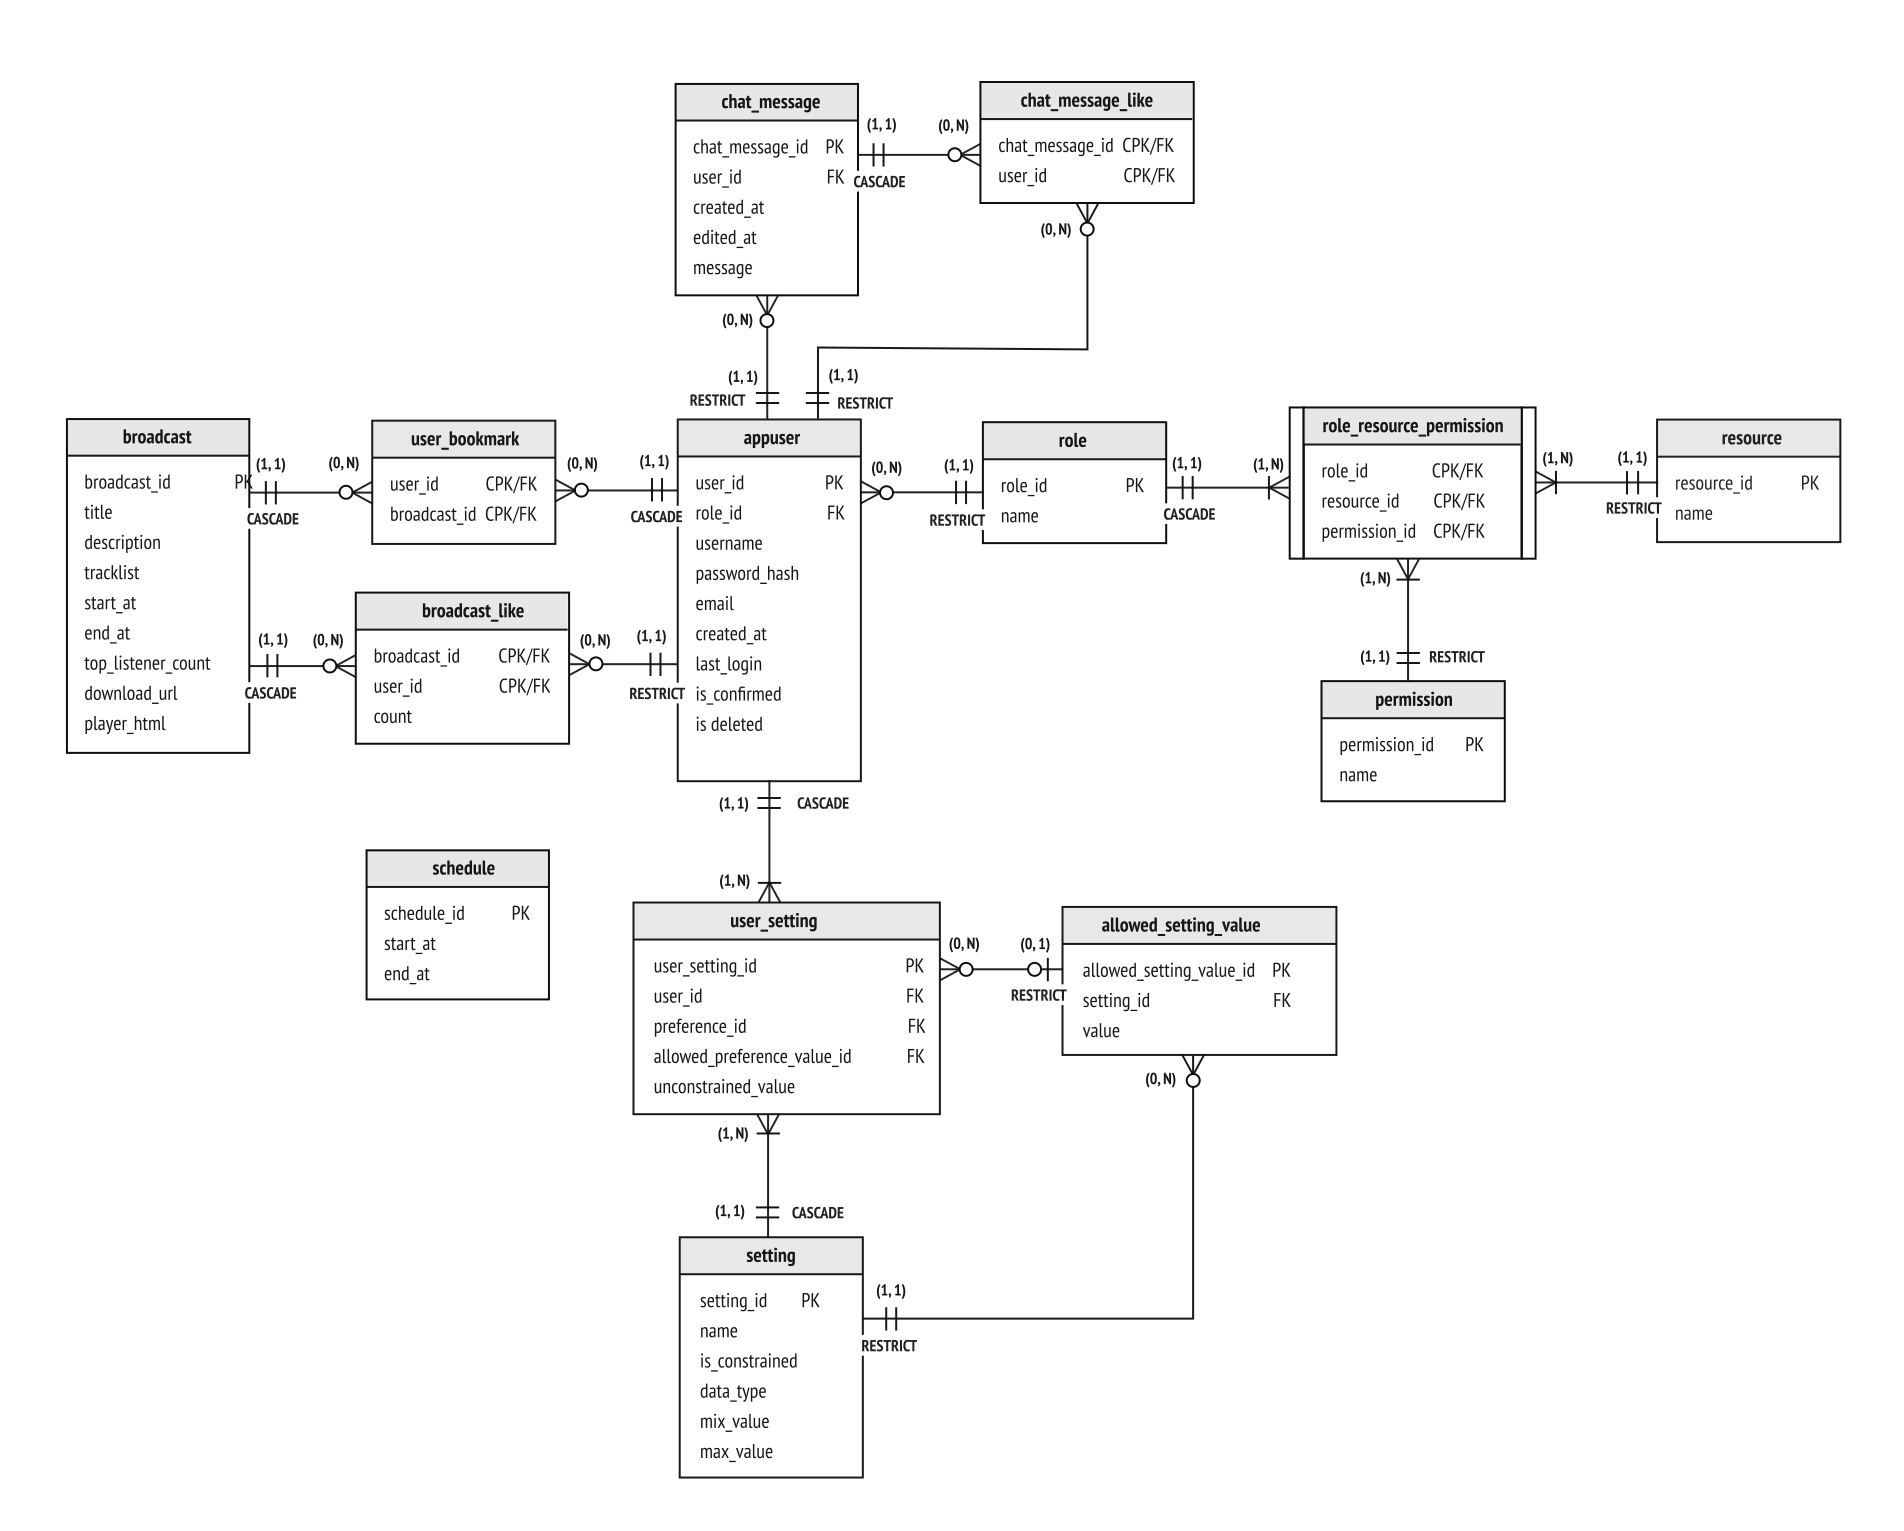
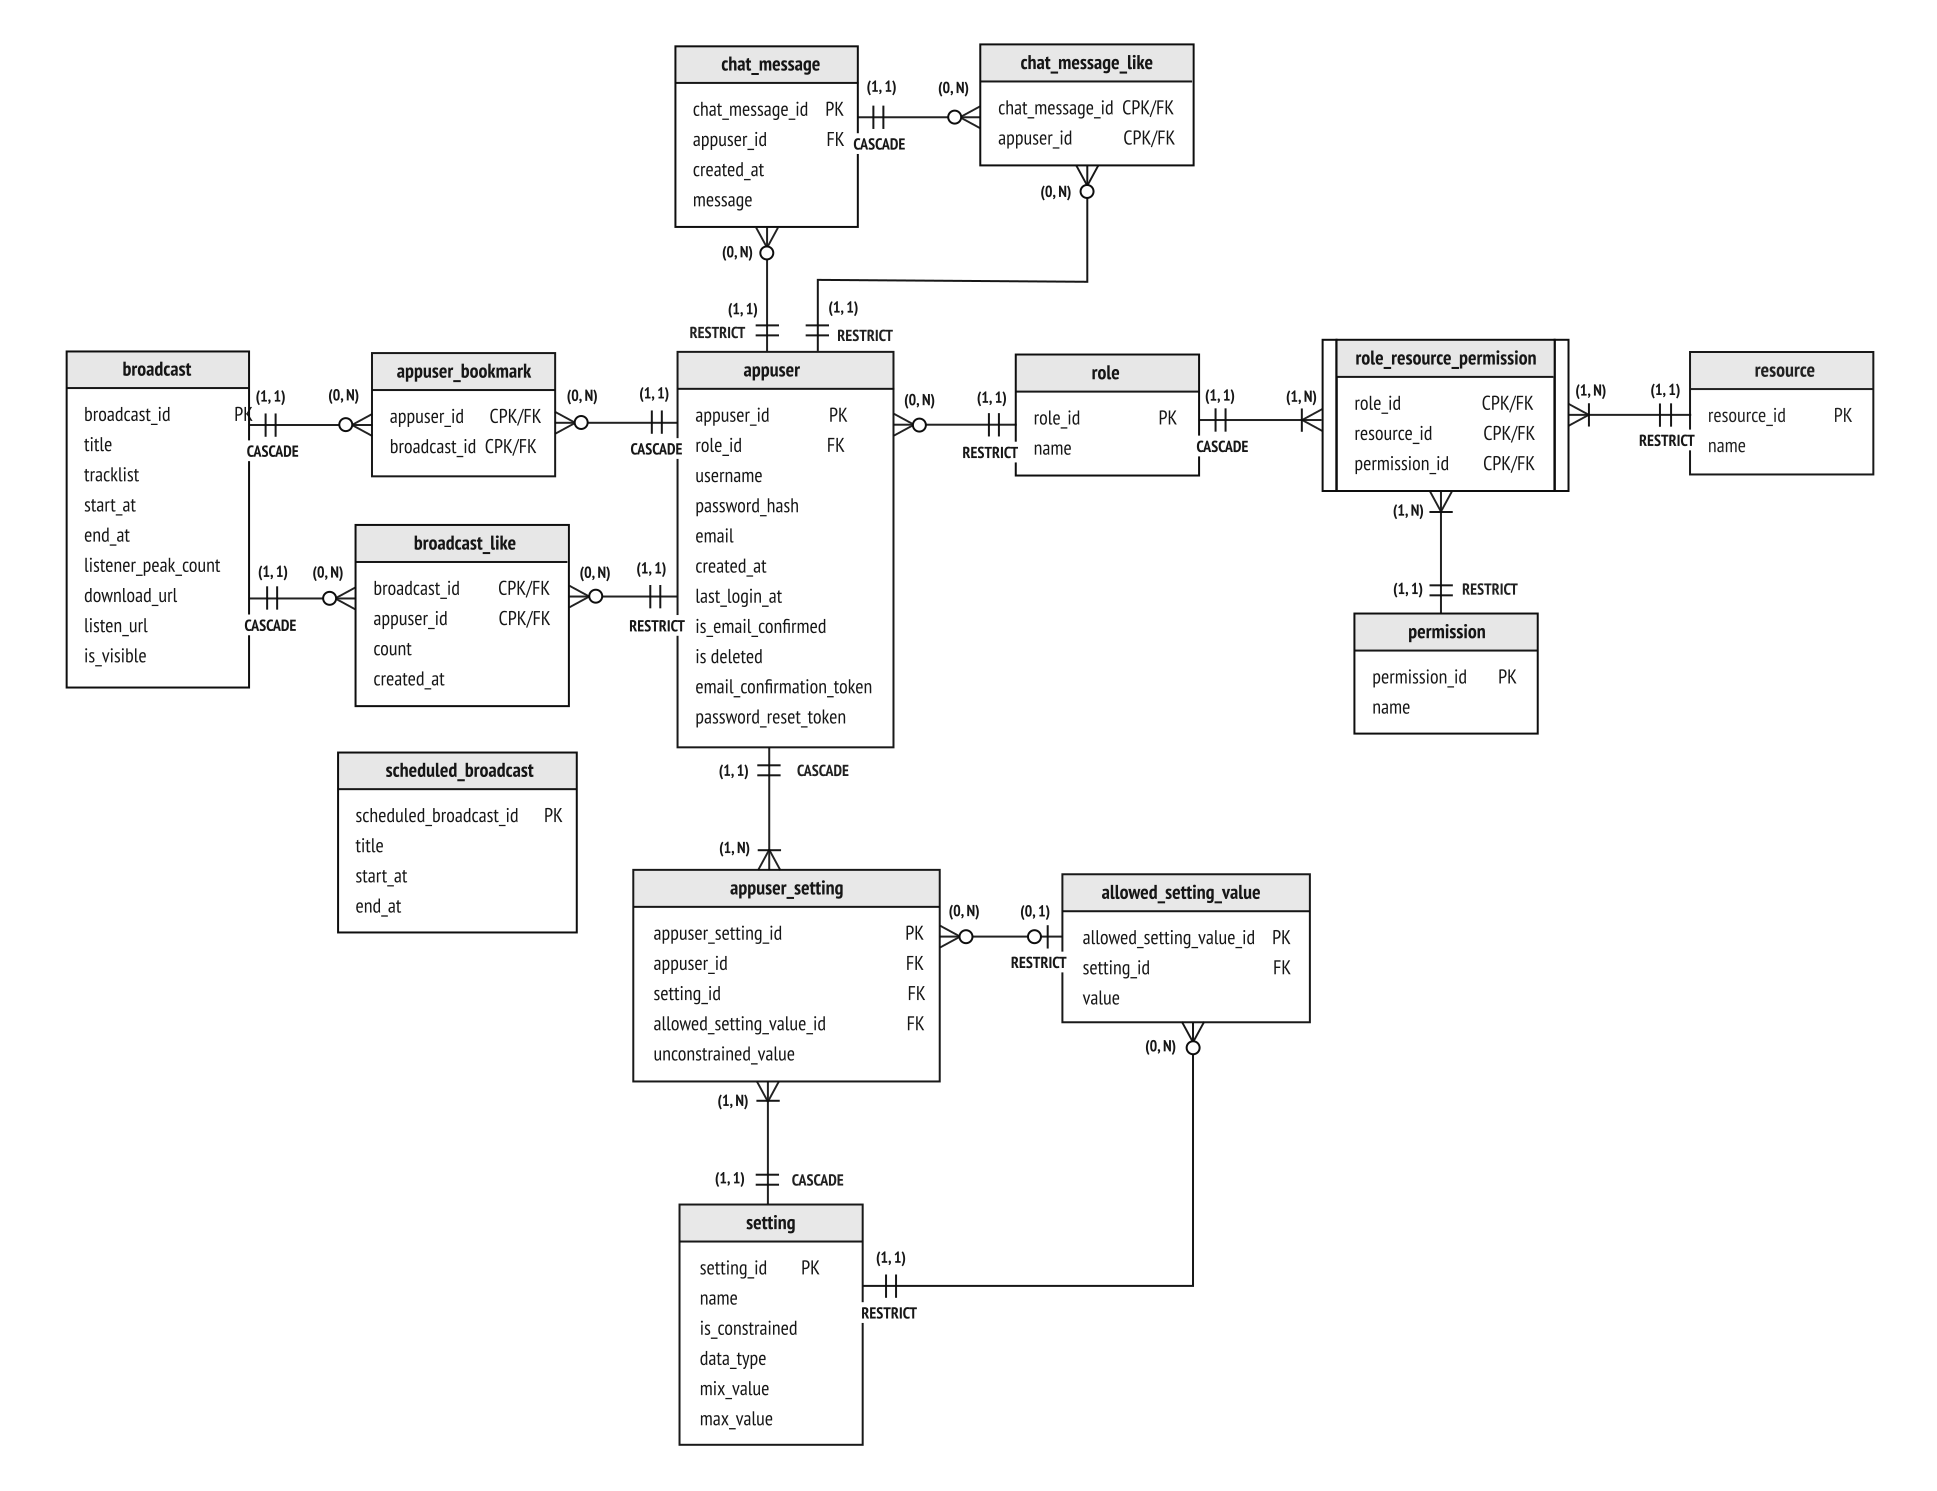
doc: Update doc text, schemas and add screenshots

Changed region(s): [[0.031, 0.0309, 0.9606, 0.9873]]

diff --git a/README.md b/README.md
@@ -1,34 +1,74 @@
-# ChilloutTribe
+# LiveStreamer
 
-Web application for broadcasting live audio and chat. Roughly speaking, it is like [Mixlr](https://mixlr.com) but on a smaller scale and  built with minimum tools and resources.
- 
-- JavaScript/TypeScript as the main programming language
-- Node.js as an Application Server
-- Node.js CLI App as producing client aka broadcaster
-- HTTP for streaming audio (Progressive HTTP Streaming)
-- WebSocket for chat and other real-time data
+Web application for broadcasting live audio and chatting. Conceptually, it is similar to [Mixlr](http://mixlr.com) but on a smaller scale.
 
-The app involves three parties: **producing client (aka broadcaster)** > **Application Server** > **consuming clients (aka listeners)**
+Suppose you're a dj and you want to broadcast your mix live. All you need to do is to start up [this command-line app](https://github.com/ponomarevandrey/live-streamer-source-client) on your local machine — it captures the live audio output and streams it to the application server, which in turn broadcasts the audio to all connected listeners.
 
-The app comprises three parts:
-- command-line HTTP client running on a broadcaster side. It captures the live audio output and streams it to the application server
-- application server consisting of HTTP server and WebSocket server. HTTP server writes incoming live audio stream to disk and passes it through the WebSocket to the consuming clients (listeners)
-- consuming clients
+Here're some screenshots just to give you an idea of how the app looks in different states.
 
-## Current Development Status
+<img src="./doc/ui-screenshots/01.png" width="40%">
 
-Work In Progress
+<img src="./doc/ui-screenshots/02.png" width="40%">
 
+<img src="./doc/ui-screenshots/03.png" width="40%">
 
+<img src="./doc/ui-screenshots/04.png" width="40%">
+
+<img src="./doc/ui-screenshots/05.png" width="40%">
+
+## How it works (high-level overview)
+
+The app involves three parties: **source client (aka broadcaster)**, **Application Server** and **consuming client (aka listener(s))**:
+
+- **source HTTP client (aka broadcaster)** (the app and its documentation are in the [separate repo](https://github.com/ponomarevandrey/live-streamer-source-client)) — it captures the audio output from OS and streams it to the app server using regular progressive HTTP streaming
+- **application server** (this repo) — serves as audio streaming and chat server. It provides REST API used by both Source Client app and React.js client app. App server takes the incoming audio stream and passes it through to listeners.
+- **consuming clients (aka listeners)**. React.js client-side app.
+
+## How it works (low-level overview)
+
+The application server is implemented as REST API and provides two main features of the app: audio broadcasting and chat.
+
+0. To start streaming, the broadcaster should start the command line [Source Client app](https://github.com/ponomarevandrey/live-streamer-source-client) and log in to the application server. Authentication is implemented using a cookie session (stored in Redis).
+1. When the broadcaster starts streaming, the Source Client app sends chunked audio stream in PUT request to `/stream` endpoint. Application server stores all live stream data (listener count, likes, etc.) in Redis.
+2. Application server detects the start of the stream and sends a notification to the frontend over WebSocket.
+3. On the client side, React receives WebSocket notification and switches into "LIVE" mode, displaying the stream status, timer, number of listeners online, and other data. When the user clicks the 'play' button, React fetches live audio using `GET /stream`.
+4. During the stream, listeners can "like" the broadcast showing that they like the music by clicking the 'heart' button. After clicking, the button becomes inactive for 10 seconds. The API endpoint allowing to "like" the broadcast is rate limited, so if the client attempts to trick the app by sending multiple "like" requests directly to the API endpoint, Nginx will ban the client's IP for some time.
+5. After the broadcast is finished, all stream data is saved from Redis to PostgreSQL. By default, the finished stream is hidden — it is not visible to listeners; only the user with broadcaster's permissions can log in and publish (make visible to everyone) the finished broadcasts. Broadcaster can also edit/update title, description, links, and other metadata of past broadcasts.
+6. Broadcaster can schedule new broadcasts (this feature is currently supported only by API; React client doesn't provide an interface for this). To do this, the client should send the scheduled broadcast's title and start/end date, and time
+
+All chat functionality, notifications as well as other real-time features are implemented over WebSocket + HTTP. Technically it is possible to implement everything solely over WebSocket, but it would end up in a pretty chaotic and unreliable client-server communication. So, to make the interaction more organized, I utilize both WebSocket and HTTP. For instance, this is how I implemented the chat:
+
+1.  Client sends a chat message to REST API
+2.  API saves the message to the database and returns 200 response to the sender.
+3.  Then API broadcasts the saved message to all connected clients (except sender) over WebSocket.
+
+    Thus we get the benefits of REST architecture and Websocket protocol at the same time. While WebSocket allows us to do everything in real-time, REST provides the structure and order in client-server communication.
 
 ## App Architecture
 
+```
+                                                        chat over WebSocket + HTTP
+            auido stream over HTTPS/1.1           audio stream over HTTP WebSocket
+ BROADCASTER -----------------------> || APP SERVER ---------------------------> LISTENERS
+(HTTP client)       mp3, 128kbps      ||                   mp3, 128kbps        (React Client)
+                                      ||
+                              Nginx as reverse proxy
+                          translating HTTPS/1.1 to HTTP/2
+```
+
 ![](./doc/architecture.png)
 
-
+> There is only one difference between development and production environment — the presence of `client` container:
+>
+> - in the dev environment, React app runs in a separate `client` container and is served by `webpack-dev-server`
+> - in production, I don't use the `client` container but serve the React app directly with Nginx instead i.e. I put all Webpack output into the `nginx` container
 
 ## Database Schema
 
 ![](./doc/db-schema.png)
 
+## Current Development Status
 
+- all of the essential features of the app server are implemented; the code needs some refactoring, but I decided not to touch anything until I write more unit tests
+- yep, there are very few tests written overall; I'm currently working to fix this
+- also, at the moment of writing, React client uses only a fraction of the existing API
